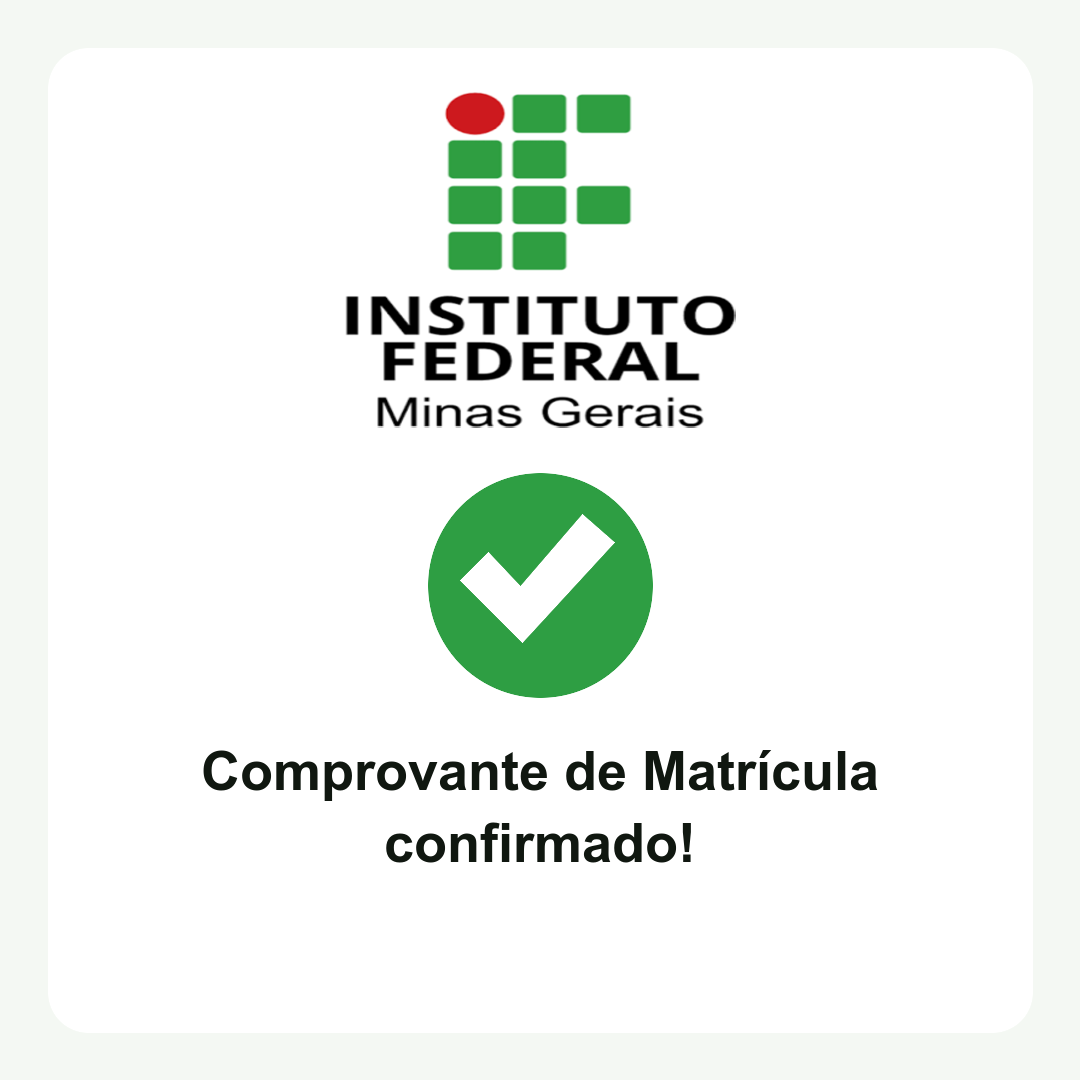
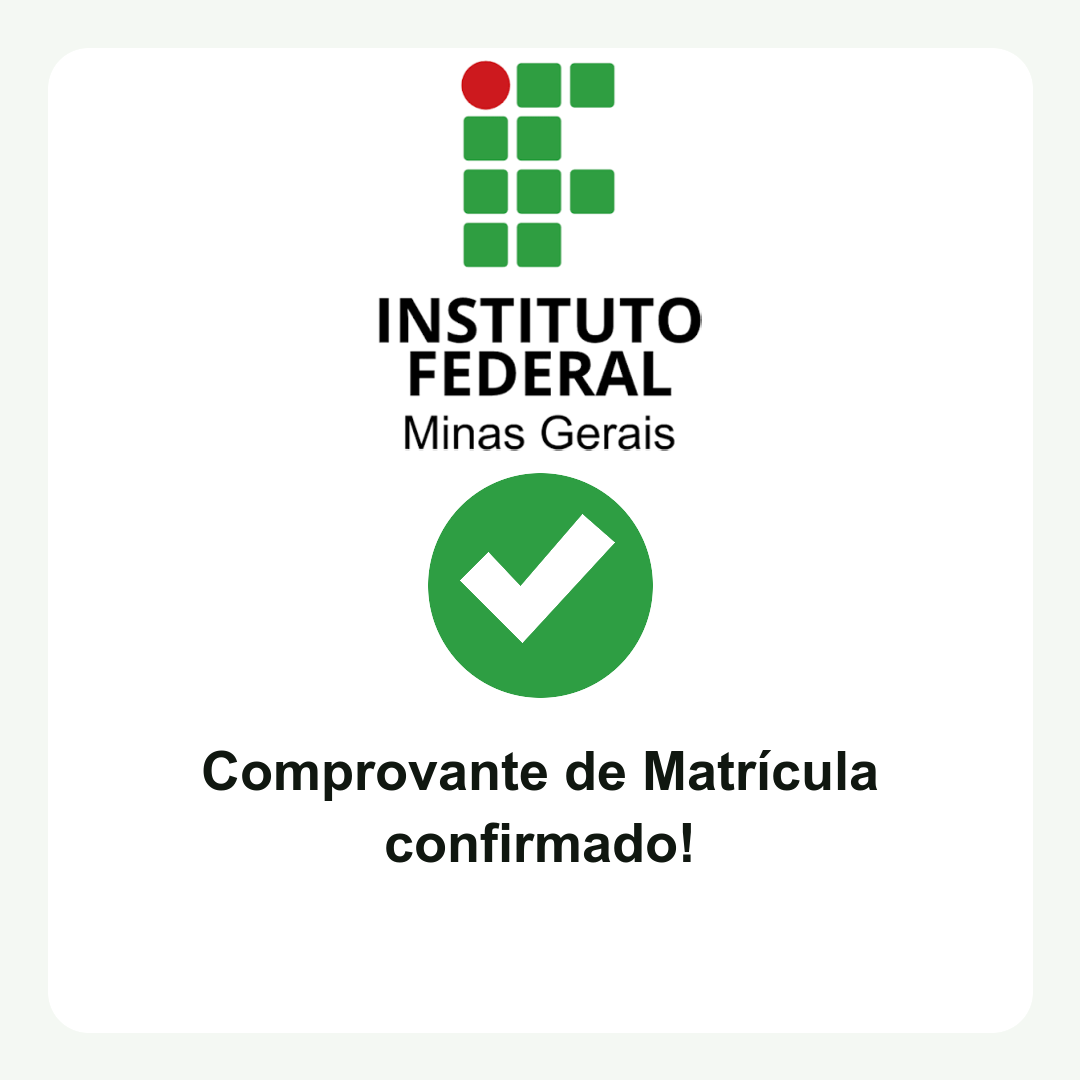
feat: animate enrollment verification (#2)

Changed region(s): [[0.3056, 0.0611, 0.7028, 0.4278]]

diff --git a/index.html b/index.html
@@ -5,26 +5,271 @@
     <meta name="viewport" content="width=device-width, initial-scale=1">
     <title>Checagem de matrícula IFMG</title>
     <meta name="description" content="Comprovante de Matrícula confirmado!">
+    <link rel="icon" href="assets/logo-ifmg.png" type="image/png">
     <style>
+      :root {
+        color-scheme: light;
+        --ifmg-green: #2e9e43;
+        --ifmg-green-dark: #19712d;
+        --ink: #101710;
+        --muted: #5f6c61;
+        --line: #dce8de;
+        --surface: #ffffff;
+        --canvas: #f2f7f1;
+      }
+
       * { box-sizing: border-box; }
-      html, body { min-height: 100%; margin: 0; }
+
+      html, body { min-height: 100%; margin: 0; overflow-x: hidden; }
+
       body {
         display: grid;
         place-items: center;
-        padding: 20px;
-        background: #f4f8f3;
-        font-family: Arial, sans-serif;
+        padding: 24px;
+        background:
+          radial-gradient(circle at 50% 0%, #ffffff 0, transparent 42%),
+          var(--canvas);
+        color: var(--ink);
+        font-family: Arial, Helvetica, sans-serif;
       }
-      img {
+
+      .card {
+        width: 100%;
+        max-width: 590px;
+        min-width: 0;
+        min-height: min(760px, calc(100vh - 48px));
+        display: flex;
+        flex-direction: column;
+        overflow: hidden;
+        padding: clamp(28px, 6vw, 54px);
+        background: var(--surface);
+        border: 1px solid var(--line);
+        border-radius: 32px;
+        box-shadow: 0 20px 60px rgb(25 70 35 / 10%);
+      }
+
+      .brand {
         display: block;
-        width: min(100%, 720px);
+        width: min(46vw, 210px);
         height: auto;
-        border-radius: 24px;
-        box-shadow: 0 12px 40px rgb(25 70 35 / 12%);
+        margin: 0 auto;
+      }
+
+      .stage {
+        display: grid;
+        width: 100%;
+        min-width: 0;
+        flex: 1;
+        place-items: center;
+        text-align: center;
+      }
+
+      .loading,
+      .result,
+      .error { grid-area: 1 / 1; }
+
+      .loading {
+        display: grid;
+        width: 100%;
+        min-width: 0;
+        justify-items: center;
+        gap: 24px;
+      }
+
+      .scanner {
+        width: 116px;
+        aspect-ratio: 1;
+        border: 9px solid #deebe0;
+        border-top-color: var(--ifmg-green);
+        border-radius: 50%;
+        animation: spin 0.9s linear infinite;
+      }
+
+      .status {
+        margin: 0;
+        font-size: clamp(1.35rem, 5vw, 1.8rem);
+        font-weight: 700;
+        letter-spacing: -0.025em;
+      }
+
+      .progress {
+        width: min(72vw, 280px);
+        height: 6px;
+        overflow: hidden;
+        background: #e7efe8;
+        border-radius: 999px;
+      }
+
+      .progress::after {
+        content: "";
+        display: block;
+        width: 45%;
+        height: 100%;
+        background: var(--ifmg-green);
+        border-radius: inherit;
+        animation: search 1.15s ease-in-out infinite;
+      }
+
+      .result,
+      .error {
+        width: 100%;
+        min-width: 0;
+        visibility: hidden;
+        opacity: 0;
+        transform: translateY(10px) scale(0.98);
+      }
+
+      .result.is-visible,
+      .error.is-visible {
+        visibility: visible;
+        opacity: 1;
+        transform: none;
+        transition: opacity 320ms ease, transform 320ms ease;
+      }
+
+      .loading.is-hidden {
+        visibility: hidden;
+        opacity: 0;
+        transition: opacity 180ms ease;
+      }
+
+      .check {
+        width: 124px;
+        aspect-ratio: 1;
+        display: grid;
+        place-items: center;
+        margin: 0 auto 28px;
+        background: var(--ifmg-green);
+        border-radius: 50%;
+        box-shadow: 0 12px 26px rgb(46 158 67 / 23%);
+      }
+
+      .check svg { width: 70px; height: 70px; }
+
+      h1 {
+        width: 100%;
+        max-width: 440px;
+        margin: 0 auto;
+        font-size: clamp(1.75rem, 7vw, 2.55rem);
+        line-height: 1.08;
+        letter-spacing: -0.04em;
+      }
+
+      .error p { color: var(--muted); }
+
+      button {
+        padding: 12px 20px;
+        border: 0;
+        border-radius: 999px;
+        background: var(--ifmg-green-dark);
+        color: #ffffff;
+        font: inherit;
+        font-weight: 700;
+        cursor: pointer;
+      }
+
+      button:focus-visible { outline: 3px solid #8ed49b; outline-offset: 3px; }
+
+      .disclaimer {
+        margin: 0;
+        color: var(--muted);
+        font-size: 0.78rem;
+        line-height: 1.45;
+        text-align: center;
+        overflow-wrap: anywhere;
+      }
+
+      @keyframes spin { to { transform: rotate(360deg); } }
+      @keyframes search { from { transform: translateX(-120%); } to { transform: translateX(270%); } }
+
+      @media (max-width: 520px) {
+        body { padding: 12px; }
+        .card {
+          width: calc(100vw - 24px);
+          min-height: calc(100vh - 24px);
+          border-radius: 24px;
+        }
+        h1 { max-width: 100%; }
+      }
+
+      @media (prefers-reduced-motion: reduce) {
+        *, *::before, *::after {
+          animation-duration: 0.01ms !important;
+          animation-iteration-count: 1 !important;
+          transition-duration: 0.01ms !important;
+        }
       }
     </style>
   </head>
   <body>
-    <img src="confirmacao.png" alt="Comprovante de Matrícula confirmado!">
+    <main class="card">
+      <img class="brand" src="assets/logo-ifmg.png" width="323" height="390" alt="Instituto Federal Minas Gerais">
+
+      <section class="stage" aria-live="polite">
+        <div class="loading" id="loading">
+          <div class="scanner" aria-hidden="true"></div>
+          <p class="status" id="status">Carregando...</p>
+          <div class="progress" aria-hidden="true"></div>
+        </div>
+
+        <div class="result" id="result">
+          <div class="check" aria-hidden="true">
+            <svg viewBox="0 0 64 64" role="img">
+              <path d="M13 33l12 12 27-29" fill="none" stroke="#fff" stroke-width="8" stroke-linecap="round" stroke-linejoin="round"/>
+            </svg>
+          </div>
+          <h1 id="message">Comprovante de Matrícula confirmado!</h1>
+        </div>
+
+        <div class="error" id="error">
+          <h1>Não foi possível concluir a checagem.</h1>
+          <p>Verifique sua conexão e tente novamente.</p>
+          <button type="button" id="retry">Tentar novamente</button>
+        </div>
+      </section>
+
+      <p class="disclaimer">Confirmação independente do arquivo publicado pelo titular. Não substitui consulta ao SUAP ou validação oficial do IFMG.</p>
+    </main>
+
+    <script>
+      const loading = document.querySelector("#loading");
+      const result = document.querySelector("#result");
+      const error = document.querySelector("#error");
+      const status = document.querySelector("#status");
+      const message = document.querySelector("#message");
+      const retry = document.querySelector("#retry");
+      const reducedMotion = matchMedia("(prefers-reduced-motion: reduce)").matches;
+
+      const wait = (milliseconds) => new Promise((resolve) => setTimeout(resolve, milliseconds));
+
+      async function verify() {
+        loading.classList.remove("is-hidden");
+        result.classList.remove("is-visible");
+        error.classList.remove("is-visible");
+        status.textContent = "Carregando...";
+
+        try {
+          if (!reducedMotion) await wait(700);
+          status.textContent = "Buscando a matrícula...";
+          const [response] = await Promise.all([
+            fetch("registro.json", { cache: "no-store" }),
+            reducedMotion ? Promise.resolve() : wait(1500),
+          ]);
+          if (!response.ok) throw new Error(`HTTP ${response.status}`);
+
+          const record = await response.json();
+          if (record.status !== "confirmado") throw new Error("status inválido");
+          message.textContent = record.mensagem;
+          loading.classList.add("is-hidden");
+          result.classList.add("is-visible");
+        } catch {
+          loading.classList.add("is-hidden");
+          error.classList.add("is-visible");
+        }
+      }
+
+      retry.addEventListener("click", verify);
+      verify();
+    </script>
   </body>
 </html>

diff --git a/README.md b/README.md
@@ -2,4 +2,4 @@
 
 Página pública de confirmação do comprovante de matrícula.
 
-Link: https://luisroquette.github.io/checagem_de_matricula_IFMG/confirmacao.png
+Link: https://luisroquette.github.io/checagem_de_matricula_IFMG/
